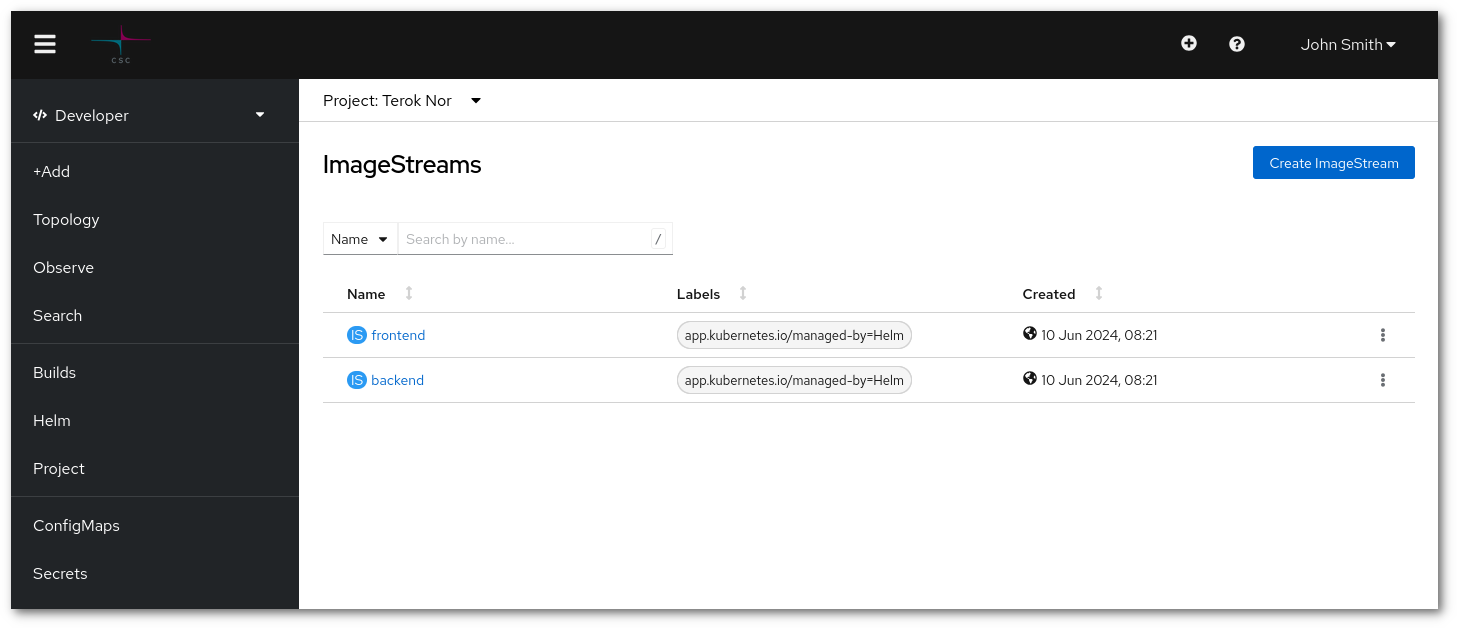
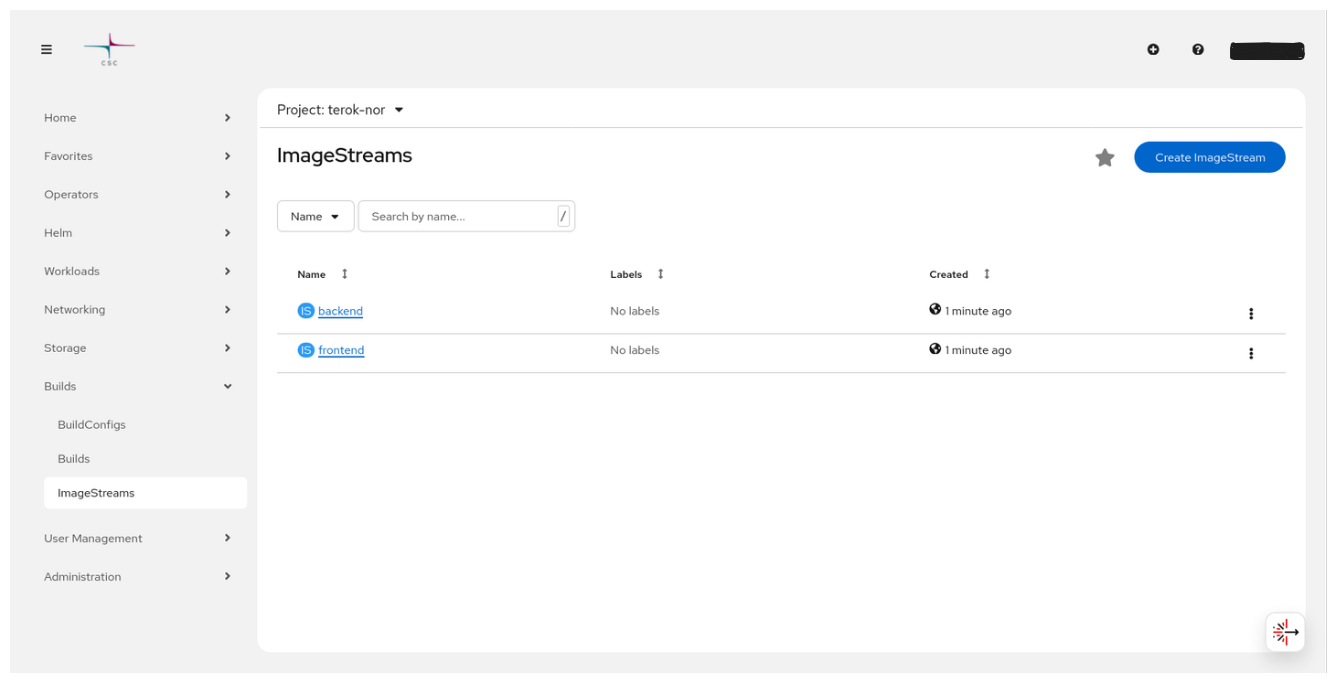
Update screeshots and information allow-pull-from-other-projects

diff --git a/docs/cloud/rahti/tutorials/allow-pull-from-other-projects.md b/docs/cloud/rahti/tutorials/allow-pull-from-other-projects.md
@@ -23,7 +23,7 @@ The objective of this tutorial is to explain how to achieve an extra use case, p
 
         The command above will allow the group `system:serviceaccounts:bajor-test` to pull any image stored in `bajor-prod`. The group contains every service account of the project.
 
-    1. You can use the web interface, by going to the `Administrator` interface and then to `User Management > RoleBindings`. Finally click in the `Create binding` button and fill up the form as shown:
+    1. You can use the web interface, by navigating to the `User Management` then to `RoleBindings`. Finally click in the `Create binding` button and fill up the form as shown:
 
         ![Create RoleBinding](../../img/Create-RoleBinding.png)
 
